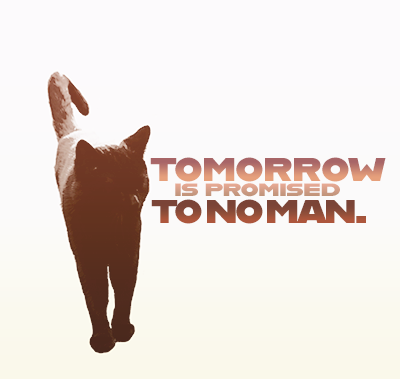
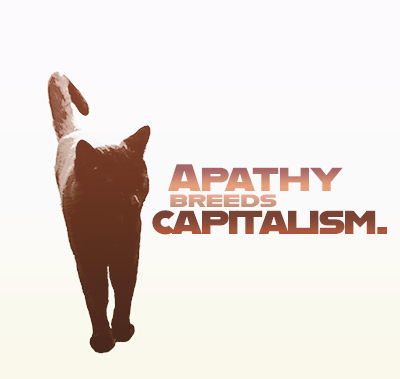
moar cards

Changed region(s): [[0.36, 0.4063, 0.96, 0.6385]]

diff --git a/full_platitudes.html b/full_platitudes.html
@@ -17,7 +17,7 @@
   <h1 class="hero__title">Full Platitudes</h1>
   <p class="hero__description">Because I can't be the only one.</p>
     <p><a href="index.html">&lt;&lt; Go back to fear flashcards.</a></p>
-</div><div class="content"> <a class="card" style="background-image: url(img/noprocess.png)"> </a> <a class="card" style="background-image: url(img/reason.png)"> </a> <a class="card" style="background-image: url(img/tomorrow.png)"></a><a class="card" style="background-image: url(img/moneyhappiness.png)"> </a></div>
+</div><div class="content"> <a class="card" style="background-image: url(img/noprocess.png)"> </a> <a class="card" style="background-image: url(img/reason.png)"> </a> <a class="card" style="background-image: url(img/tomorrow.png)"></a><a class="card" style="background-image: url(img/moneyhappiness.png)"></a><a class="card" style="background-image: url(img/greatthings.png)"></a></div>
 <br>
 <br>
 </body>
